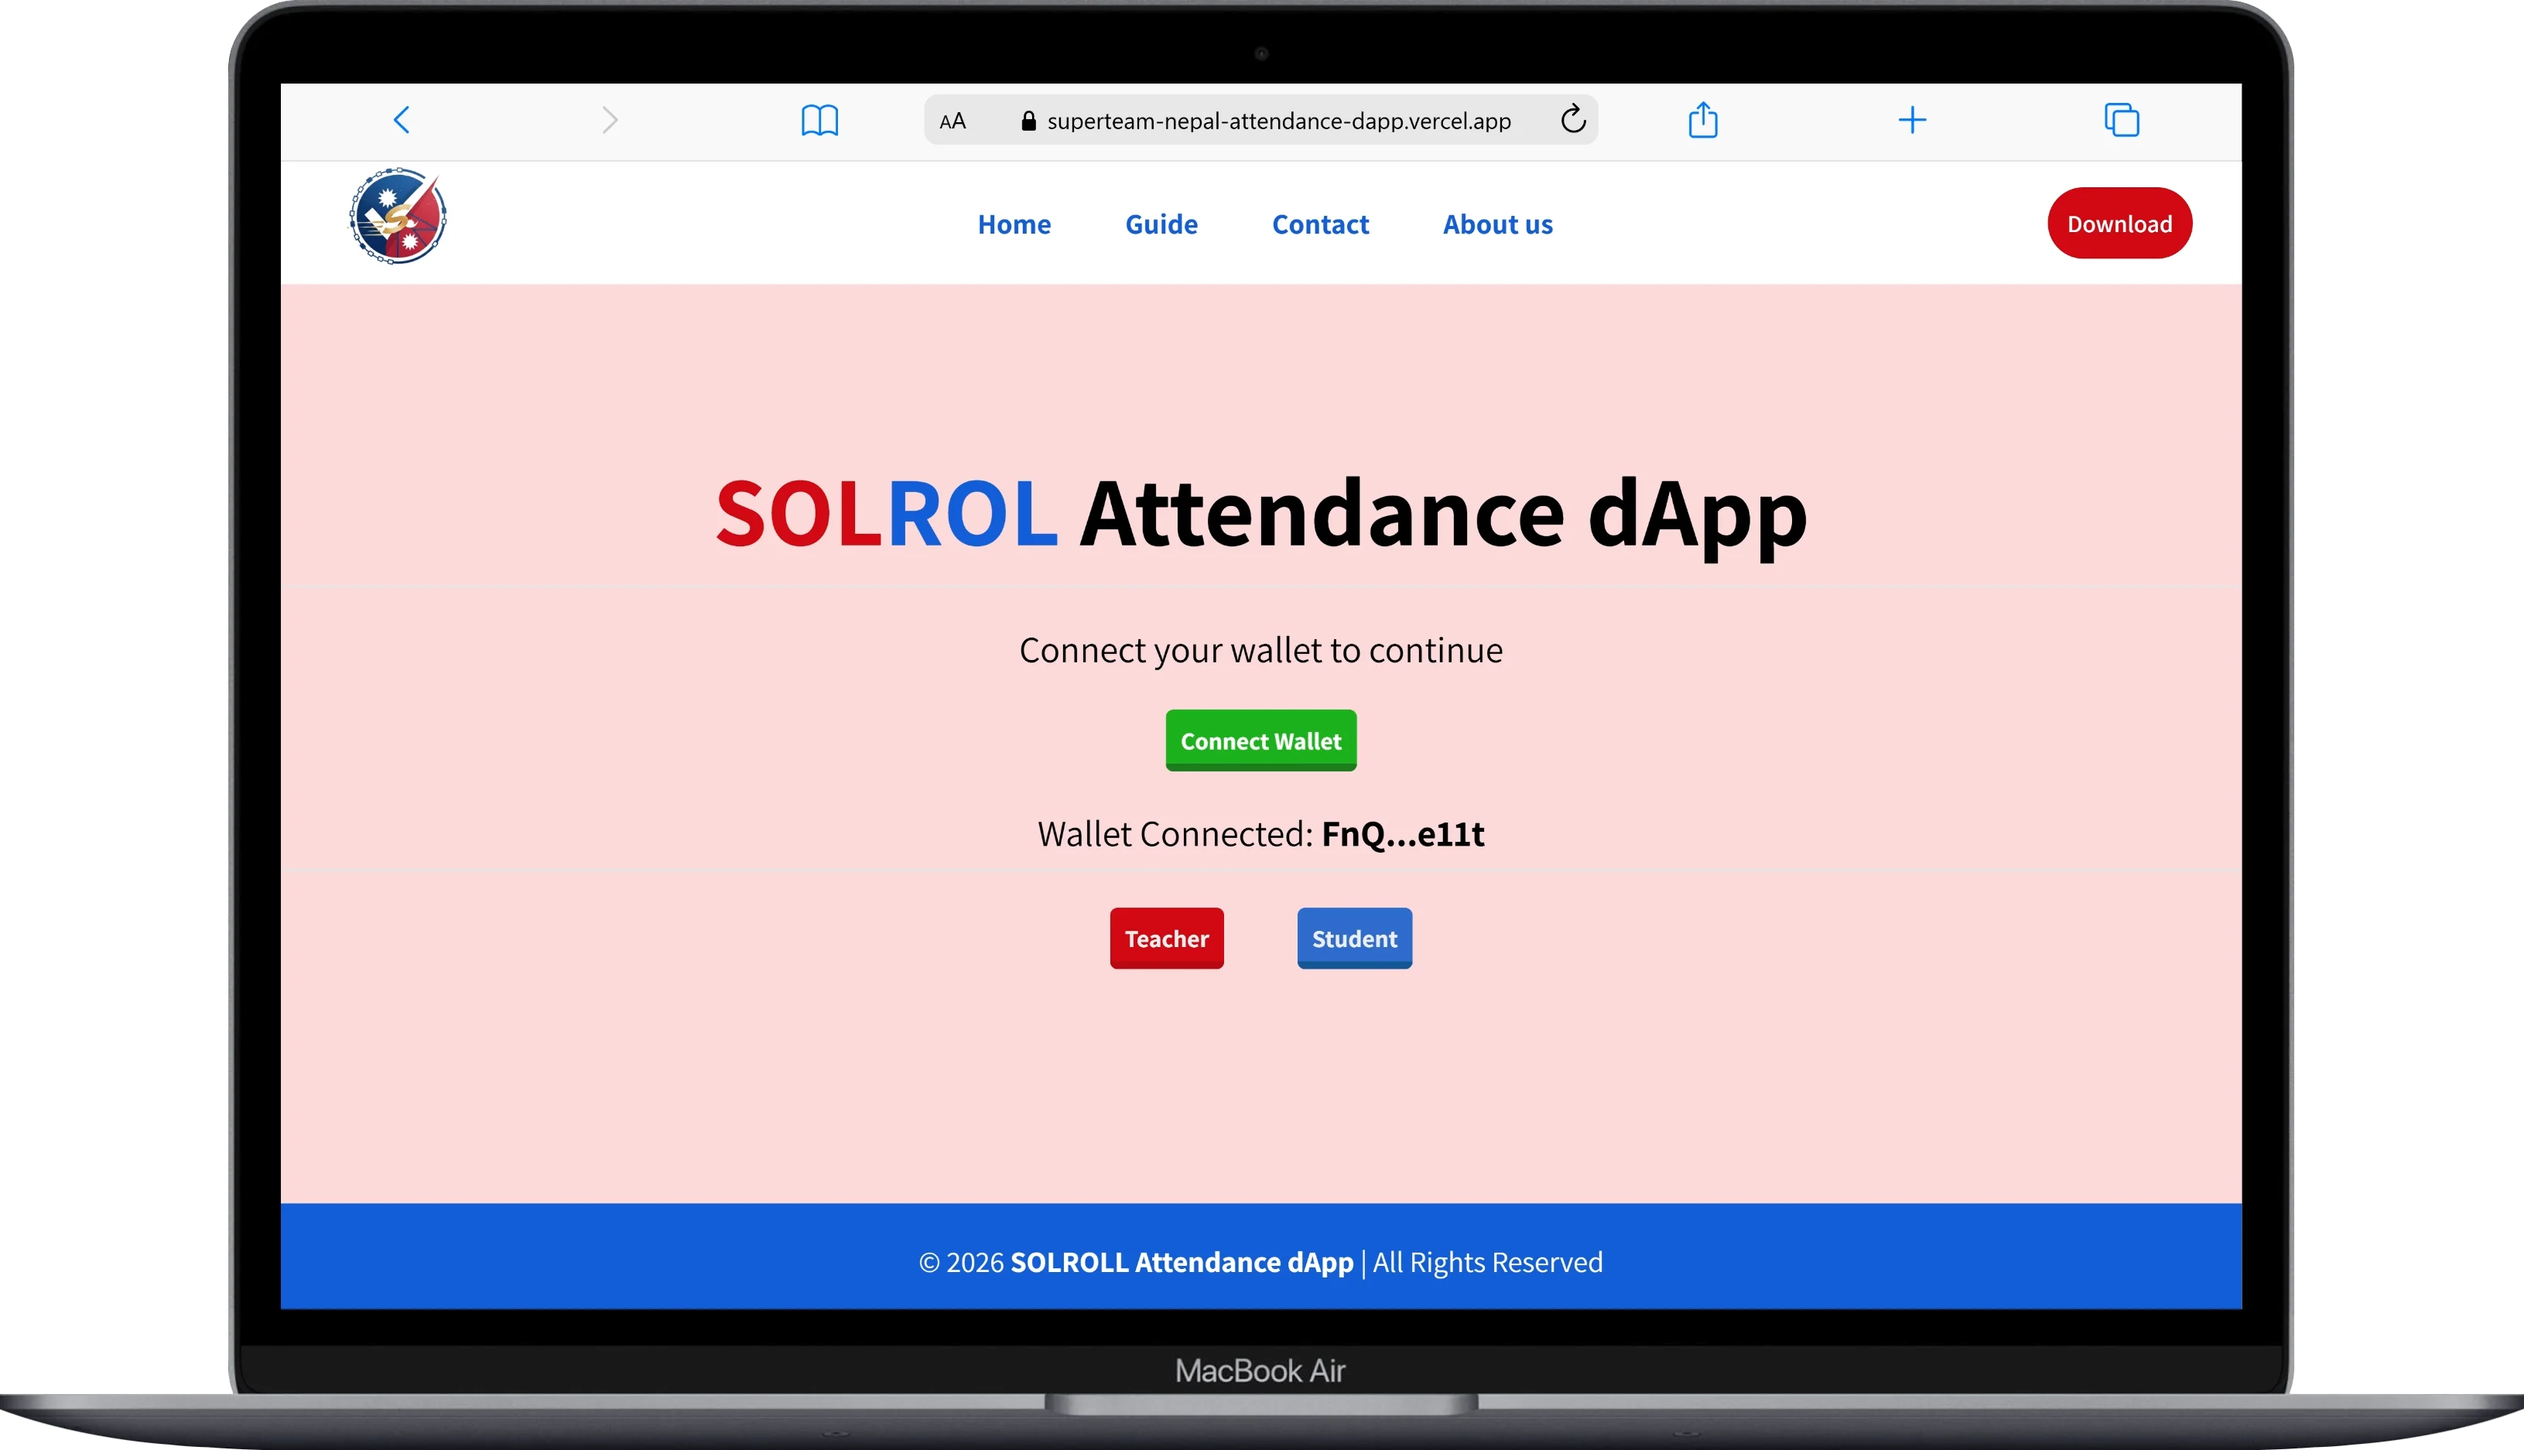
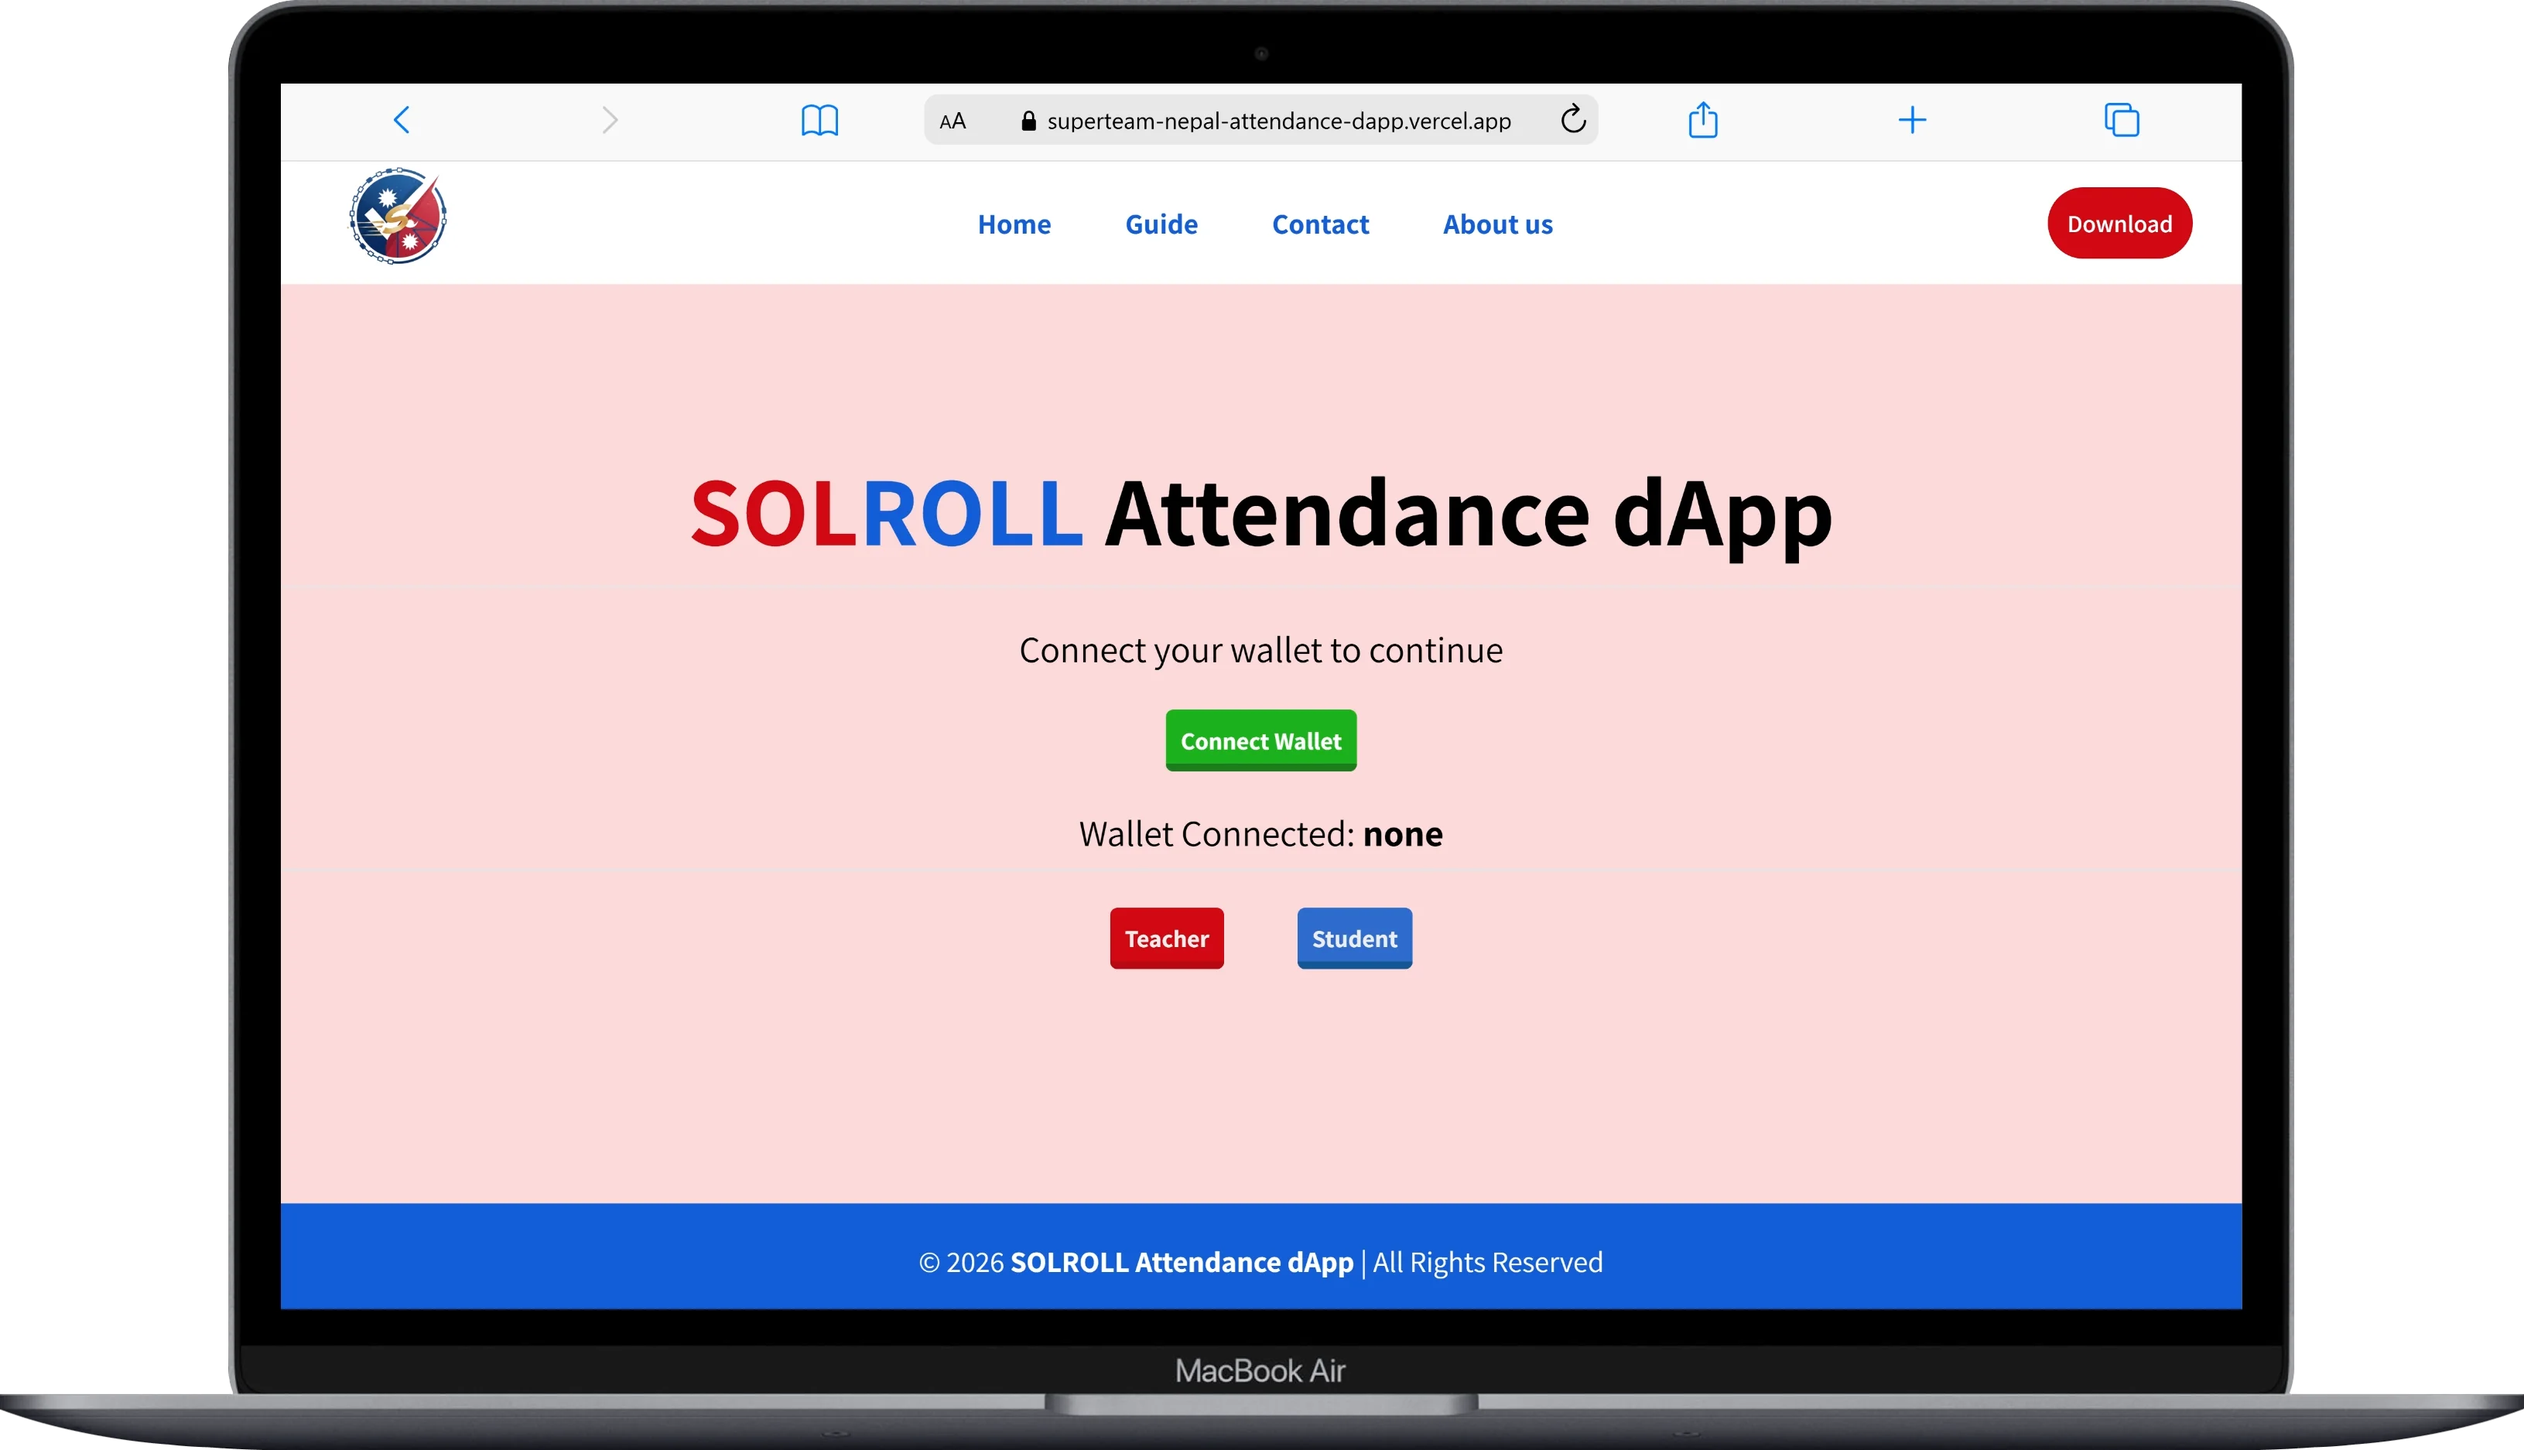
Fix spelling of "SOLROL" to "SOLROLL" in README and update live demo link

Changed region(s): [[0.2787, 0.3095, 0.7431, 0.4023], [0.4025, 0.5571, 0.5883, 0.588]]

diff --git a/Readme.md b/Readme.md
@@ -1,4 +1,4 @@
-# SOLROL Attendance dApp
+# SOLROLL Attendance dApp
 
 [![Developer](https://img.shields.io/badge/Developer-Anuj%20Ghimire-blue)](http://anujghimire.com.np)
 [![Blockchain](https://img.shields.io/badge/Blockchain-Solana-green)]()
@@ -7,7 +7,7 @@
 
 ## Project Overview 🚀
 
-**SOLROL Attendance dApp** was built as part of the **Superteam Nepal University Tour mini-hack.**
+**SOLROLL Attendance dApp** was built as part of the **Superteam Nepal University Tour mini-hack.**
 
 The goal was to **create a beginner-friendly but fully functional Solana dApp** where teachers can mark attendance and students can view verified records.
 
@@ -51,7 +51,7 @@ Watch the project in action:
 ## Live Project 🌐
 
 Access the live dApp here:  
-[**SOLROL Attendance dApp Live Demo**](https://superteam-nepal-attendance-dapp.vercel.app/)
+[**SOLROLL Attendance dApp Live Demo**](https://superteam-nepal-attendance-dapp.vercel.app/)
 
 ---
 
